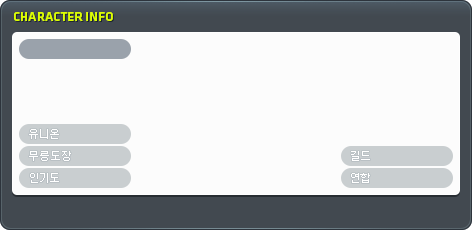
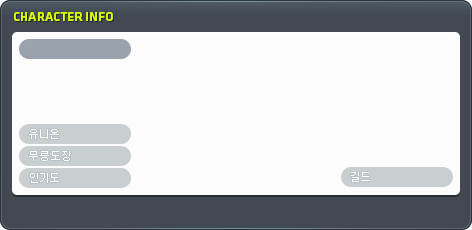
character Info창 정보 출력 완료

Changed region(s): [[0.7119, 0.6087, 0.9788, 0.8217]]

diff --git a/SearchGUI.py b/SearchGUI.py
@@ -44,6 +44,10 @@ class SearchGUI:
         self.searchB.place(x=self.xSize//2 + 100 - 15, y=3,width=100, height=30)
 
 
+        cImageLabel_bg = Label(self.window, bg="#c9ced0", width=30, height=11)
+        cImageLabel_bg.place(x=195, y=37)
+
+
         """# 이메일 전송창
         self.mailSendE = Entry(self.window, highlightcolor='black', highlightbackground='black', highlightthickness=2)
         self.mailSendE.place(x=self.xSize//2 - 150 - 35, y=self.ySize - 35, width=300, height=30)
@@ -53,7 +57,7 @@ class SearchGUI:
         self.mailSendB.place(x=self.xSize//2 + 150 - 35, y=self.ySize - 35, width=100, height=30)"""
 
 
-        #self.characterInfoSearch() # 테스트 출력
+        # self.characterInfoSearch() # 테스트 출력
         self.window.mainloop()
 
 
@@ -67,43 +71,43 @@ class SearchGUI:
         self.characterInfo_label.place(x=0, y=0)
 
     def characterInfoSearch(self):
+
         # 직업 리벨
-        self.nameLabel = Label(self.window, text=str(self.mapleInfo.basic["character_class"]), bg='#9aa2ab', width=15)
-        self.nameLabel.place(x=40, y=43)
+        self.classLabel = Label(self.window, text=str(self.mapleInfo.basic["character_class"]), bg='#9aa2ab', width=15)
+        self.classLabel.place(x=40, y=43)
 
         # 유니온
         self.unionLabel = Label(self.window, text=str(self.mapleInfo.union["union_level"]), bg='#c9ced0', width=5)
         self.unionLabel.place(x=115, y=135)
 
         # 무릉도장
-        self.Mu_Lung_Dojo = Label(self.window, text="", bg='#c9ced0', width=5)
+        self.Mu_Lung_Dojo = Label(self.window, text=str(self.mapleInfo.Mu_Lung_Dojo["dojang_best_floor"]), bg='#c9ced0', width=5)
         self.Mu_Lung_Dojo.place(x=115, y=158)
 
         # 인기도
-        self.unionLabel = Label(self.window, text="", bg='#c9ced0', width=5)
+        self.unionLabel = Label(self.window, text=str(self.mapleInfo.popularity["popularity"]), bg='#c9ced0', width=5)
         self.unionLabel.place(x=115, y=183)
 
 
         # 길드
-        self.guild = Label(self.window, text="", bg='#c9ced0', width=10)
-        self.guild.place(x=493  , y=159)
+        self.guildLabel = Label(self.window, text=str(self.mapleInfo.basic["character_guild_name"]), bg='#c9ced0', width=10)
+        self.guildLabel.place(x=493  , y=182)
 
-        # 연맹
-        self.Federation = Label(self.window, text="", bg='#c9ced0', width=10)
-        self.Federation.place(x=493, y=183)
+        # 이미지 출력
+        self.cImageLabel = Label(self.window, bg="#c9ced0")
+        self.cImageLabel.place(x=255, y=65)
 
-        # self.nameLabel.configure(text="이름: " + self.mapleInfo.name)
+        # 이름 출력
+        self.nameLabel = Label(self.window, bg="#9aa2ab", text=str(self.mapleInfo.name), width=15)
+        self.nameLabel.place(x=245, y=170)
 
-
-        # self.levelLabel.configure(text="레벨: " + str(self.mapleInfo.basic['character_level']))
-        # self.serverLabel.configure(text="서버: " + self.mapleInfo.basic['world_name'])
-        # url = self.mapleInfo.basic['character_image']
-        # with urllib.request.urlopen(url) as u:
-        #     raw_data = u.read()
-        # im = Image.open(BytesIO(raw_data))
-        # image = ImageTk.PhotoImage(im, master=self.window)
-        # self.cImageLabel.configure(image=image)
-        # self.cImageLabel.image = image
+        url = self.mapleInfo.basic['character_image']
+        with urllib.request.urlopen(url) as u:
+            raw_data = u.read()
+        im = Image.open(BytesIO(raw_data))
+        image = ImageTk.PhotoImage(im, master=self.window)
+        self.cImageLabel.configure(image=image)
+        self.cImageLabel.image = image
 
     def bar_print(self): # 찾고자 하는 캐릭 정보를 선택하는 부분 배경 출력
         tempImage = Image.open("image/bar.png")
